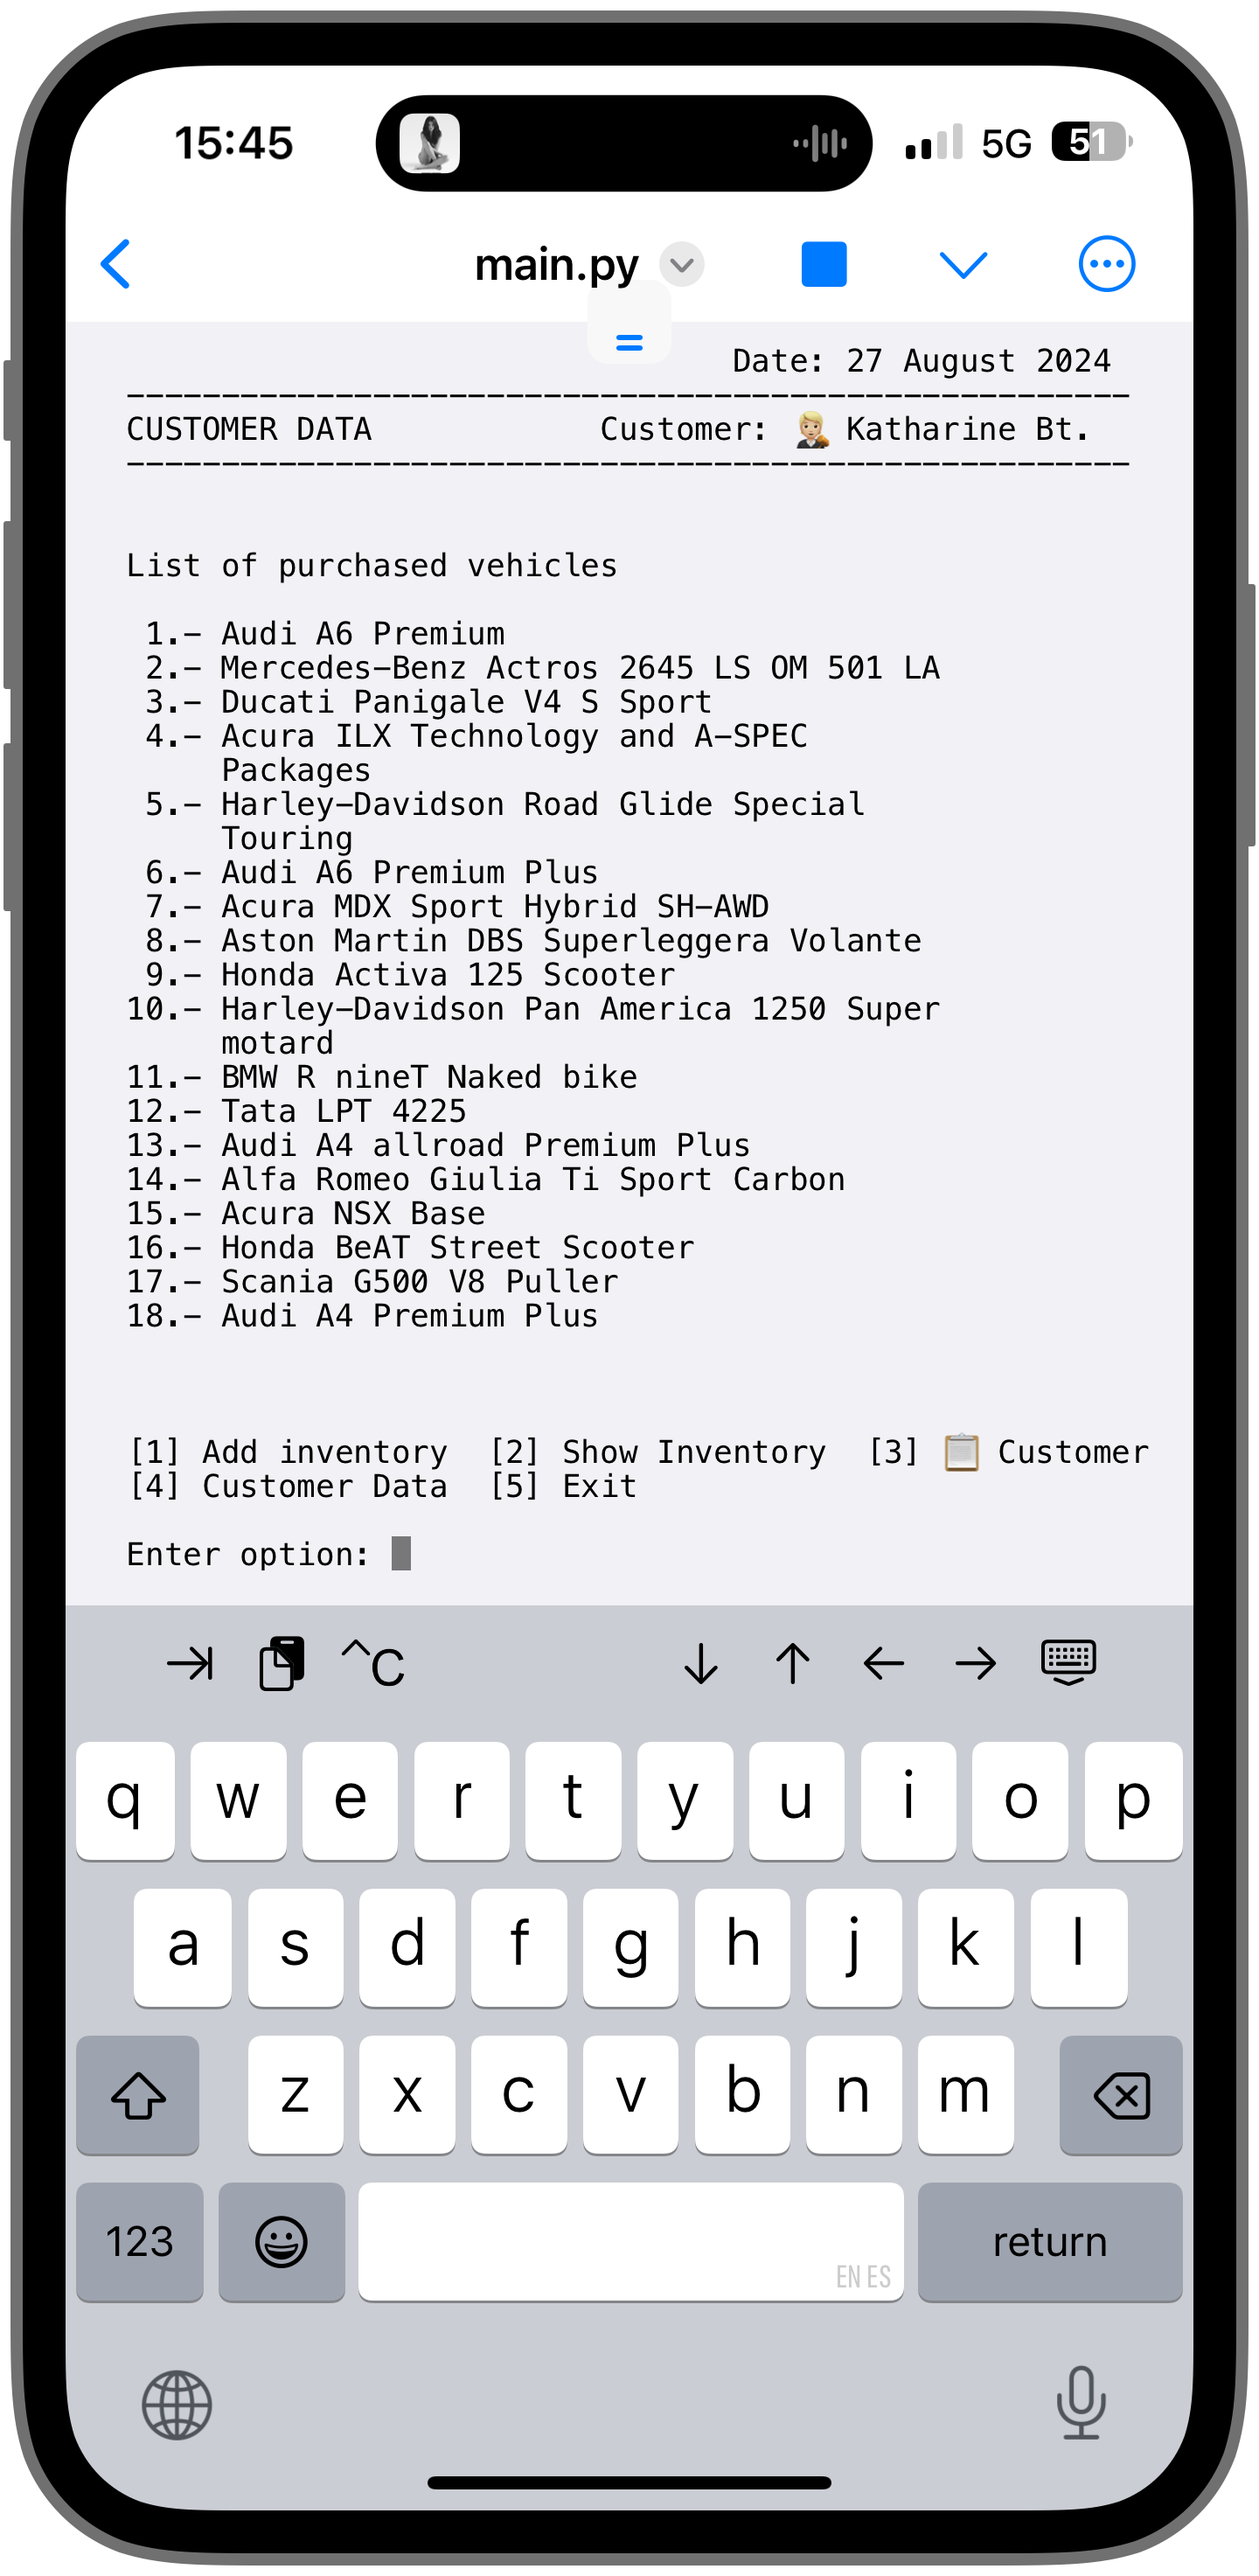
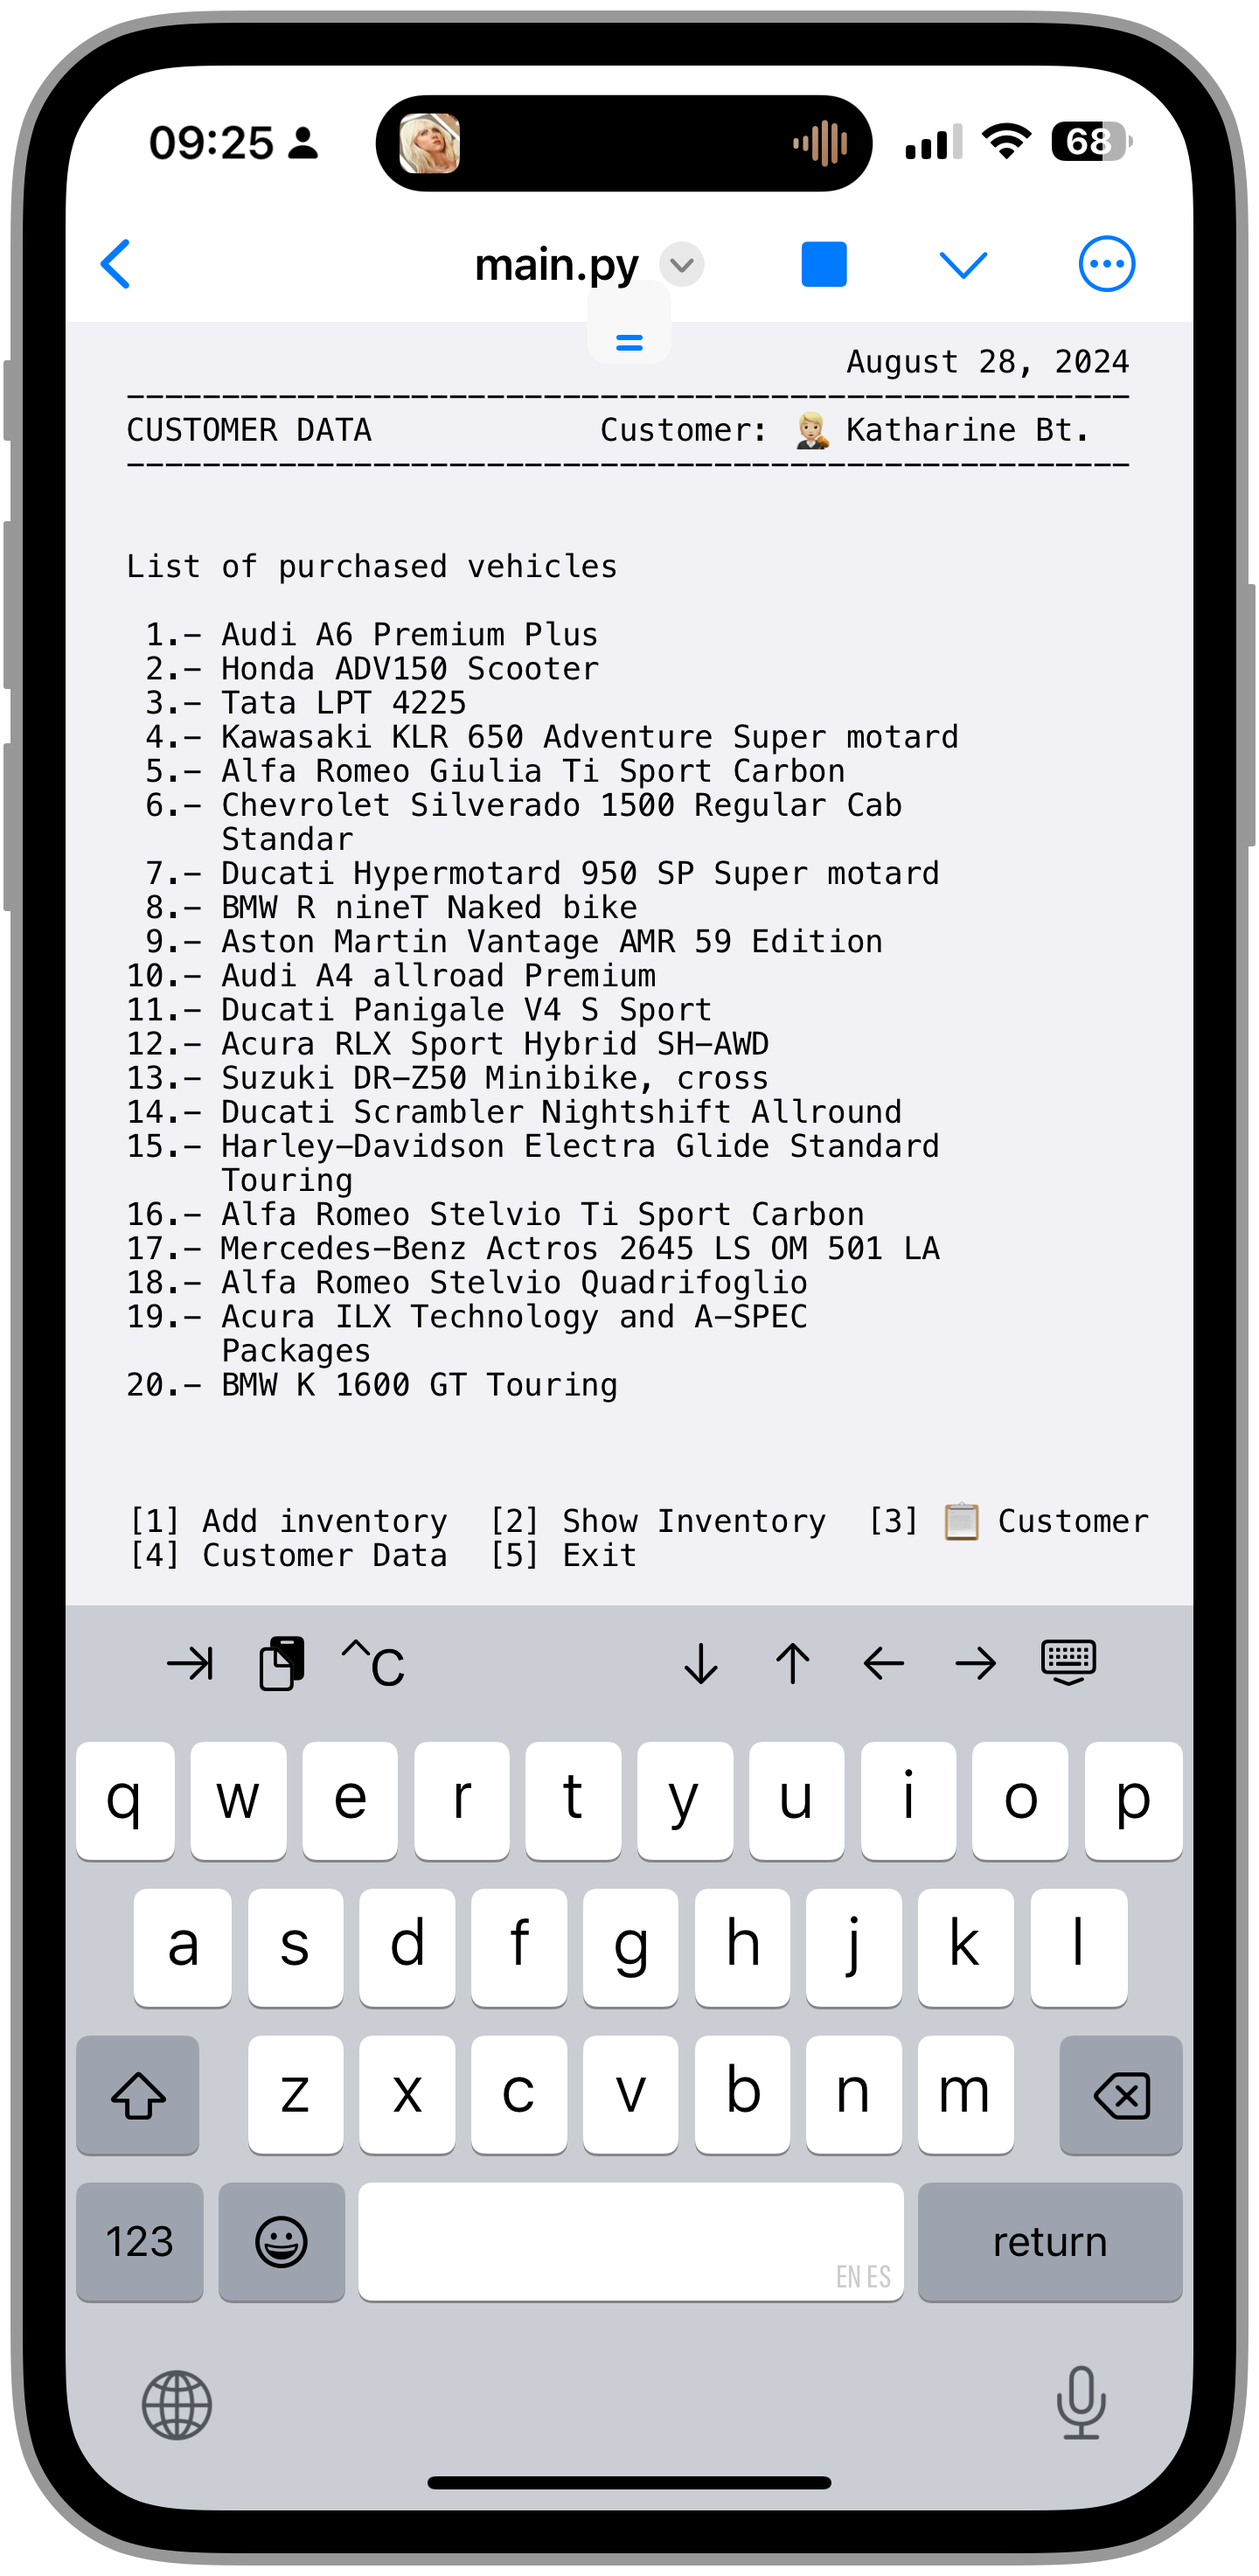
new frames

diff --git a/main.py b/main.py
@@ -40,7 +40,7 @@ def main():
   
   def date_time():
     current_date = datetime.now()
-    formatted_date = current_date.strftime("Date: %d, %B %Y")
+    formatted_date = current_date.strftime("%B %d, %Y")
     return formatted_date
 
   def register_customer1():
@@ -268,7 +268,7 @@ def main():
         else:
           customer_name = dealership.customers[0].name
         spacing = " " * 15 
-        initial_spacing = " " * 32
+        initial_spacing = " " * 38
         print()
         print(f" {initial_spacing}{date_time()}")
         print("" * 1, "-" * 53)
@@ -399,13 +399,13 @@ def main():
         else:
           customer_name = dealership.customers[0].name
         spacing = " " * 11
-        initial_spacing = " " * 32
+        initial_spacing = " " * 38
         print()
         print(f" {initial_spacing}{date_time()}")
         print("" * 1, "-" * 53)
         print(f" CUSTOMER DATA {spacing}Customer: 🧑🏼⚖ {customer_name}")
         print("" * 1, "-" * 53)
-        # print(f" {initial_spacing}Date: 24, August 2024")
+        # print(f" {initial_spacing}Date: August 24, 2024")
         # print(f" {initial_spacing}{date_time()}")
         # print()
         

diff --git a/README.md b/README.md
@@ -7,12 +7,12 @@ python3 main.py
 ```
 
 <p align="center">
-  <img src="./frames/main.PNG" style="border-radius:6px" width="43%" alt="initial page">
+  <img src="./frames/home.PNG" style="border-radius:6px" width="43%" alt="initial page">
 &nbsp; &nbsp; &nbsp; &nbsp;
-  <img src="./frames/sell.PNG" style="border-radius:6px" width="43%" alt="vehicle">
+  <img src="./frames/sell.PNG" style="border-radius:6px" width="43%" alt="sell vehicle">
 </p>
 <p align="center">
-  <img src="./frames/notavailable.PNG" style="border-radius:6px" width="43%" alt="vehicle available">
+  <img src="./frames/notavailable.PNG" style="border-radius:6px" width="43%" alt="vehicle not available">
 &nbsp; &nbsp; &nbsp; &nbsp;
   <img src="./frames/customer.PNG" style="border-radius:6px" width="43%" alt="custromer data">
 </p>
